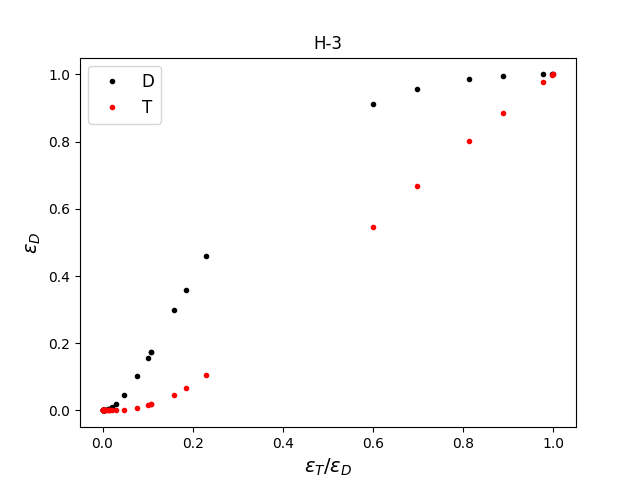
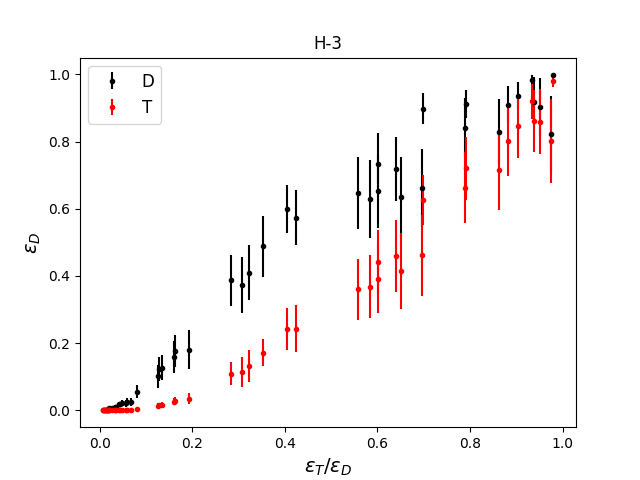
Work on efficiency curves

diff --git a/MCTDCRcode/main_MCTDCR.py b/MCTDCRcode/main_MCTDCR.py
@@ -16,15 +16,15 @@ import scipy.stats as st
 
 
 ## INPUT OF THE MODEL
-N=1              # number of simulated decay (MC trials)
-Rad=["Am-241"]       # list of radionuclides
+N=10              # number of simulated decay (MC trials)
+Rad=["H-3"]       # list of radionuclides
 pmf_1=[1]       # relative abondance (pmf)
 kB = 1e-5         # Birks constant in cm/keV
 L=[1e-1]
 #L = np.logspace(-4,-2,10) # Free paramete in keV-1 (for Co-60)
 #L = np.logspace(-3,-1,10) # Free paramete in keV-1 (for Am-241)
 # L = np.logspace(-3,1,30) # Free paramete in keV-1 (for Sr-90)
-# L = np.logspace(-2,1,50) # Free paramete in keV-1 (for H-3)
+L = np.logspace(-2,1,50) # Free paramete in keV-1 (for H-3)
 TDCR_measure = 0.977784        # Measured TDCR value
 u_TDCR_measure = 0.000711      # standard uncertainty
 RHO = 0.96         #density of absorber (Toluene) g/cm3
@@ -159,8 +159,7 @@ for L_i in L: # loop on the free parameter values
              particle_vec[i] = "electron"
              energy_vec[i] = e_beta[index_beta_energy]
          if p == "gamma" or p == "x":
-             index_recoil_electron_energy = tl.energie_dep_gamma(energy_vec[i])
-             print("index", index_recoil_electron_energy)
+             #index_recoil_electron_energy = tl.energie_dep_gamma(energy_vec[i])
              particle_vec[i] = "electron" # false Compton scattering... to develop...!!!!!!!!!!!!!!
          if p[:4] == "Atom": # Electron capture
              energy_vec[i] = 0
@@ -192,7 +191,7 @@ for L_i in L: # loop on the free parameter values
        #energy_vec=[90,90,90,3,3,3,3,3,3,3]  # test against Broda ARI 58 (2003) 585-594
        #energy_vec=[25,25,25,3,3,3,3,3,3,3]  # test against Broda ARI 58 (2003) 585-594
        #energy_vec=[3,3,3,3,3,3,3,3,3,3]  # test against Broda ARI 58 (2003) 585-594
-       p_nosingle = np.exp(-L_i*np.asarray(energy_vec)/3)
+       p_nosingle = np.exp(-L_i*np.sum(np.asarray(energy_vec))/3)
        p_single = 1-p_nosingle
        efficiency_T.append(p_single**3)
        efficiency_D.append(3*(p_single)**2-2*efficiency_T[-1])
@@ -200,9 +199,9 @@ for L_i in L: # loop on the free parameter values
 
     # We calculate the final estimator
     mean_efficiency_T.append(np.mean(efficiency_T)) # average
-    std_efficiency_T.append(np.std(efficiency_T))   # standard deviation
+    std_efficiency_T.append(np.std(efficiency_T)/np.sqrt(N))   # standard deviation
     mean_efficiency_D.append(np.mean(efficiency_D))
-    std_efficiency_D.append(np.std(efficiency_D))
+    std_efficiency_D.append(np.std(efficiency_D)/np.sqrt(N))
     TDCR_calcul.append(mean_efficiency_T[-1]/mean_efficiency_D[-1])
     
     print("\t TDCR calculation")
@@ -235,8 +234,8 @@ for L_i in L: # loop on the free parameter values
 
 plt.figure("Efficiency curve I")
 plt.title(''.join(Rad))
-plt.plot(L,mean_efficiency_D,".k",label = "D")[0]
-plt.plot(L,mean_efficiency_T,".r", label = "T")[0]
+plt.plot(L,mean_efficiency_D,".k",label = "D")
+plt.plot(L,mean_efficiency_T,".r", label = "T")
 plt.xscale("log")
 #plt.plot(np.mean(TDCR_calcul_vec)*np.ones(N),efficiency_T,".b")[0]
 #plt.plot([TDCR_measure, TDCR_measure], [min(mean_efficiency_D), max(mean_efficiency_D)], '-r', label="Measurement")
@@ -248,8 +247,8 @@ plt.close()
 
 plt.figure("Efficiency curve II")
 plt.title(''.join(Rad))
-plt.plot(TDCR_calcul,mean_efficiency_D,".k", label = "D")[0]
-plt.plot(TDCR_calcul,mean_efficiency_T,".r",label = "T")[0]
+plt.errorbar(TDCR_calcul, mean_efficiency_D, yerr=std_efficiency_D, fmt=".k", label = "D")
+plt.errorbar(TDCR_calcul, mean_efficiency_T, yerr=std_efficiency_T, fmt=".r", label = "T")
 plt.xlabel(r"$\epsilon_T/\epsilon_D$", fontsize = 14)
 plt.ylabel(r"$\epsilon_D$", fontsize = 14)
 plt.legend(fontsize = 12)
